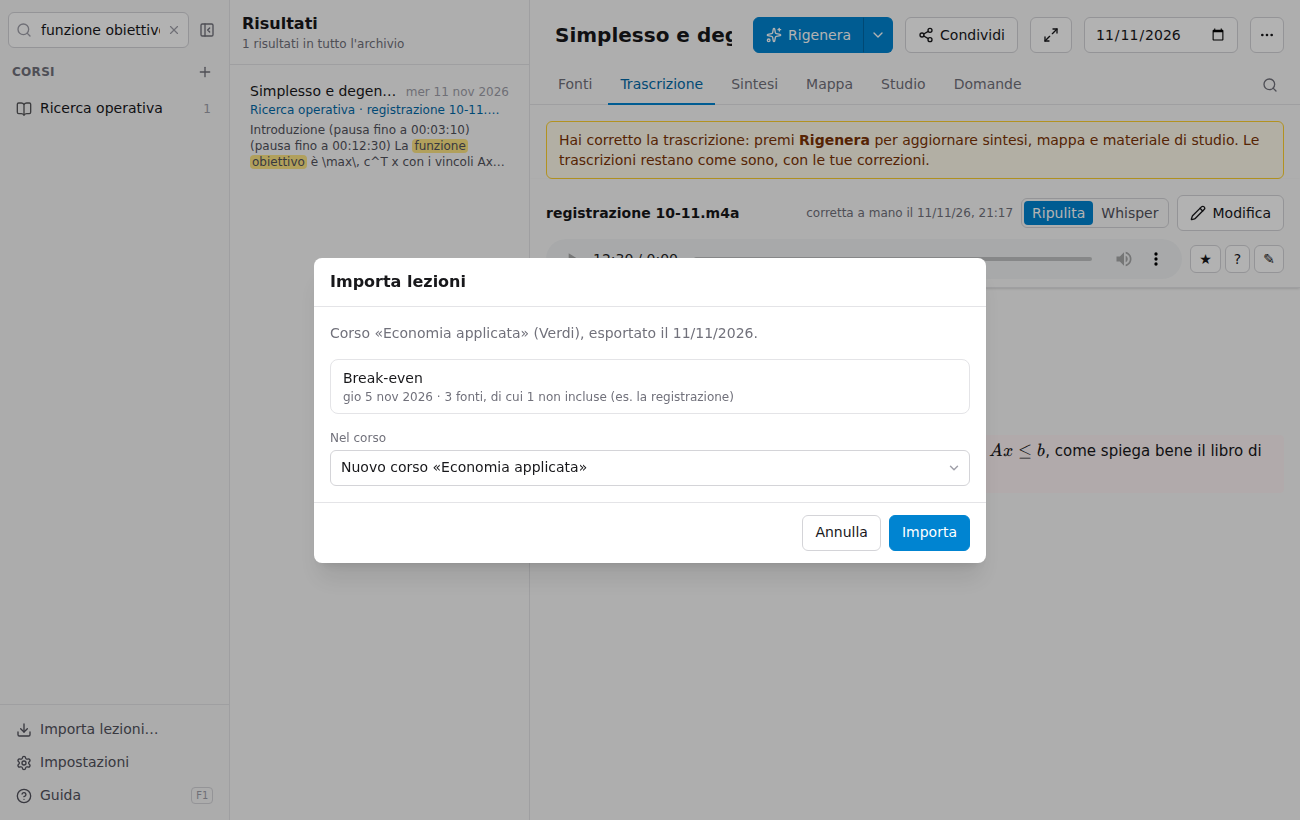
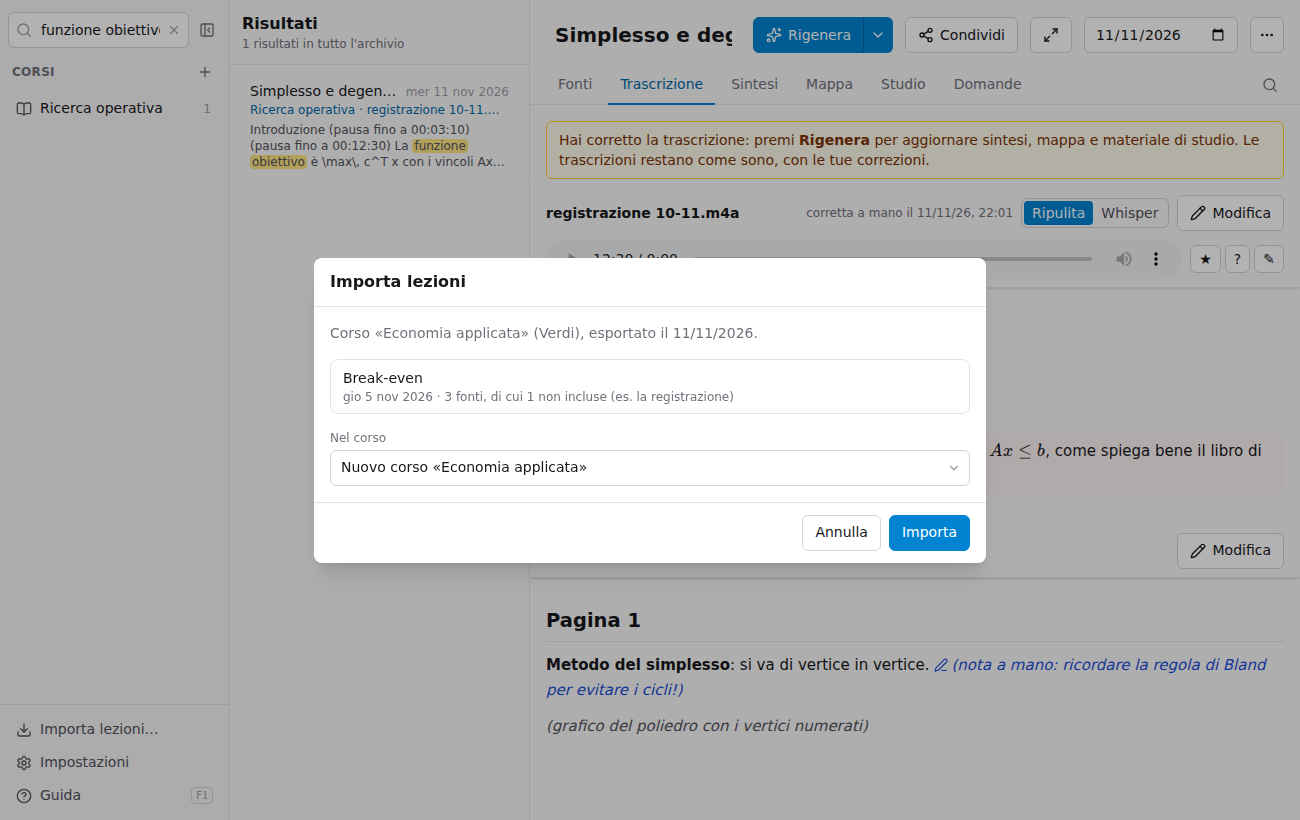
Map: links to the transcript and PDF export; handwritten notes in pen blue
OpenRouter takes PDFs up to 50 MB (a 33 MB one of 59 annotated slides worked).

Changed region(s): [[0.4, 0.7317, 0.9846, 0.8537], [0.4308, 0.8841, 0.6462, 0.9146], [0.9231, 0.6402, 0.9846, 0.7012]]

diff --git a/src/features/lesson/Outputs.tsx b/src/features/lesson/Outputs.tsx
@@ -1,8 +1,9 @@
 import { ask } from "@tauri-apps/plugin-dialog";
-import { ChevronDown, ChevronRight, Pause, Pencil, Plus, RotateCcw, Shuffle, Sparkles, Trash2, X } from "lucide-react";
+import { ArrowUpRight, ChevronDown, ChevronRight, FileDown, Pause, Pencil, Plus, RotateCcw, Shuffle, Sparkles, Trash2, X } from "lucide-react";
 import { useCallback, useEffect, useMemo, useRef, useState, useSyncExternalStore } from "react";
-import { ai, api, courseAi, costLine, fileUrl, sourceFile, toAppError, type Course, type JobEvent, type Bookmark, type BookmarkKind, type Lesson, type MapNode, type Outputs, type Study } from "../../lib/api";
-import { Markdown, MARK_ICON, MARK_LABEL } from "../../lib/Markdown";
+import { ai, api, courseAi, costLine, share, fileUrl, sourceFile, toAppError, type Course, type JobEvent, type Bookmark, type BookmarkKind, type Lesson, type MapNode, type Outputs, type Study } from "../../lib/api";
+import { Markdown, MARK_ICON, MARK_LABEL, toSecs } from "../../lib/Markdown";
+import { buildMapHtml } from "../share/html";
 import { toast } from "../../lib/toast";
 import { VersionsButton } from "./Versions";
 import { FlashCard, ReviewSession } from "../study/Review";
@@ -746,9 +747,41 @@ const DEPTH_STYLE = [
   "text-zinc-600 dark:text-zinc-400",
 ];
 
-function TreeNode({ node, depth }: { node: MapNode; depth: number }) {
+const fold = (s: string) => s.toLowerCase().normalize("NFD").replace(/\p{M}/gu, "");
+
+/** The reference of a map node: its own (`rif`, new maps), or the first one of the summary's
+ *  paragraph that talks about it (maps made before). As a link: `#t=F1@750` or `#f=F3`. */
+function nodeRef(node: MapNode, summary: string | null): { href: string; label: string } | null {
+  const toHref = (r: string) => {
+    const m = r.trim().match(/^\[?(F\d+)(?:\s+(\d{1,2}:\d{2}(?::\d{2})?))?/);
+    if (!m) return null;
+    return { href: m[2] ? `#t=${m[1]}@${toSecs(m[2])}` : `#f=${m[1]}`, label: m[2] ? `${m[1]} ${m[2]}` : m[1] };
+  };
+  if (node.rif) return toHref(node.rif);
+  if (!summary) return null;
+  const label = fold(node.etichetta);
+  const words = label.split(/\W+/u).filter((w) => w.length > 3);
+  const paras = summary.split(/\n\s*\n/).filter((p) => /\[F\d+/.test(p));
+  const score = (p: string) => {
+    const f = fold(p);
+    if (f.includes(label)) return 100;
+    return words.filter((w) => f.includes(w)).length;
+  };
+  let best: string | null = null;
+  let bestScore = 0;
+  for (const p of paras) {
+    const sc = score(p);
+    if (sc > bestScore) [best, bestScore] = [p, sc];
+  }
+  const enough = bestScore === 100 || (words.length > 0 && bestScore >= Math.max(2, Math.ceil((words.length * 2) / 3)));
+  const ref = enough && best ? best.match(/\[(F\d+(?:\s+\d{1,2}:\d{2}(?::\d{2})?)?)/) : null;
+  return ref ? toHref(ref[1]) : null;
+}
+
+function TreeNode({ node, depth, summary, onRef }: { node: MapNode; depth: number; summary: string | null; onRef: (href: string) => void }) {
   const [open, setOpen] = useState(true);
   const kids = node.figli ?? [];
+  const ref = nodeRef(node, summary);
   return (
     <div className="flex items-center">
       <button
@@ -759,11 +792,16 @@ function TreeNode({ node, depth }: { node: MapNode; depth: number }) {
         <span className="max-w-64">{node.etichetta}</span>
         {kids.length > 0 && !open && <span className="ml-1 text-xs opacity-70">+{kids.length}</span>}
       </button>
+      {ref && (
+        <button className="ml-1 shrink-0 rounded p-0.5 text-sky-600 hover:bg-sky-100 dark:text-sky-400 dark:hover:bg-sky-950" onClick={() => onRef(ref.href)} title={`Vai al punto della trascrizione (${ref.label})`} aria-label={`Vai a ${ref.label}: ${node.etichetta}`} data-map-ref>
+          <ArrowUpRight className="size-3.5" />
+        </button>
+      )}
       {kids.length > 0 && open && (
         <div className="relative ml-6 flex flex-col gap-2 border-l-2 border-sky-300 py-1 pl-4 dark:border-sky-800">
           {kids.map((k, i) => (
             <div key={i} className="relative before:absolute before:top-1/2 before:-left-4 before:w-4 before:border-t-2 before:border-sky-300 dark:before:border-sky-800">
-              <TreeNode node={k} depth={depth + 1} />
+              <TreeNode node={k} depth={depth + 1} summary={summary} onRef={onRef} />
             </div>
           ))}
         </div>
@@ -772,11 +810,28 @@ function TreeNode({ node, depth }: { node: MapNode; depth: number }) {
   );
 }
 
-export function MapTab({ outputs, process }: { outputs: Outputs; process: React.ReactNode }) {
+export function MapTab({ lesson, course, outputs, process, onRef }: { lesson: Lesson; course: Course | null; outputs: Outputs; process: React.ReactNode; onRef: (href: string) => void }) {
   if (!outputs.map) return <Placeholder text="La mappa concettuale degli argomenti della lezione." action={process} />;
+  const map = outputs.map;
   return (
     <div className="overflow-auto pb-6 select-text">
-      <TreeNode node={outputs.map} depth={0} />
+      <div className="mb-3 flex items-center gap-3">
+        <p className="flex-1 text-xs text-zinc-500">Clicca un concetto per chiuderlo o aprirlo; la freccia accanto porta al punto della trascrizione in cui se ne parla.</p>
+        {course && (
+          <button
+            className="btn"
+            onClick={() =>
+              share.print(`mappa-${lesson.title}`.replace(/[^\p{L}\p{N}]+/gu, "-").toLowerCase(), buildMapHtml(course, lesson, map)).then(
+                () => toast("Si è aperto il browser: nella finestra di stampa scegli «Salva come PDF»."),
+                (e) => toast(toAppError(e).message, "error"),
+              )
+            }
+          >
+            <FileDown className="size-4" /> Esporta in PDF
+          </button>
+        )}
+      </div>
+      <TreeNode node={map} depth={0} summary={outputs.summary} onRef={onRef} />
     </div>
   );
 }

diff --git a/src/features/share/html.tsx b/src/features/share/html.tsx
@@ -43,7 +43,39 @@ function Outline({ node }: { node: MapNode }) {
   );
 }
 
-function LessonDoc({ lesson, outputs, parts, course }: ExportLesson & { parts: ExportParts; course: Course }) {
+/** The concept map drawn as in the app: boxes joined by lines, colours by level (static CSS). */
+export function MapTree({ node, depth = 0 }: { node: MapNode; depth?: number }) {
+  const kids = node.figli ?? [];
+  return (
+    <div className="mt-node">
+      <span className={`mt-box mt-d${Math.min(depth, 3)}`}>{node.etichetta}</span>
+      {kids.length > 0 && (
+        <div className="mt-kids">
+          {kids.map((k, i) => (
+            <div key={i} className="mt-kid">
+              <MapTree node={k} depth={depth + 1} />
+            </div>
+          ))}
+        </div>
+      )}
+    </div>
+  );
+}
+
+const MAP_CSS = `
+.mt-node { display: flex; align-items: center; }
+.mt-box { flex-shrink: 0; max-width: 220px; padding: 5px 11px; border-radius: 8px; font-size: 13px; line-height: 1.3; break-inside: avoid; }
+.mt-d0 { background: #0284c7; color: #fff; font-weight: 700; font-size: 15px; }
+.mt-d1 { background: #e0f2fe; color: #0c4a6e; font-weight: 600; }
+.mt-d2 { background: #fff; border: 1px solid #d4d4d8; }
+.mt-d3 { color: #52525b; }
+.mt-kids { display: flex; flex-direction: column; gap: 6px; margin-left: 22px; padding: 3px 0 3px 14px; border-left: 2px solid #7dd3fc; }
+.mt-kid { position: relative; break-inside: avoid; }
+.mt-kid::before { content: ""; position: absolute; top: 50%; left: -14px; width: 14px; border-top: 2px solid #7dd3fc; }
+* { -webkit-print-color-adjust: exact; print-color-adjust: exact; }
+`;
+
+function LessonDoc({ lesson, outputs, parts, course, drawMap }: ExportLesson & { parts: ExportParts; course: Course; drawMap?: boolean }) {
   const codes = Object.entries(outputs.info?.sources ?? {});
   const name = (id: string) => lesson.sources.find((s) => s.id === id)?.originalName ?? "";
   const transcripts = lesson.sources.filter((s) => outputs.extracts[s.id] !== undefined);
@@ -77,9 +109,15 @@ function LessonDoc({ lesson, outputs, parts, course }: ExportLesson & { parts: E
       {parts.map && outputs.map && (
         <section>
           <h2 className="part">Mappa concettuale</h2>
-          <ul className="outline">
-            <Outline node={outputs.map} />
-          </ul>
+          {drawMap ? (
+            <div className="map-drawn">
+              <MapTree node={outputs.map} />
+            </div>
+          ) : (
+            <ul className="outline">
+              <Outline node={outputs.map} />
+            </ul>
+          )}
         </section>
       )}
       {parts.study && outputs.study && (
@@ -170,7 +208,7 @@ export function buildHtml(course: Course, lessons: ExportLesson[], parts: Export
   const body = renderToStaticMarkup(
     <main>
       {lessons.map((l) => (
-        <LessonDoc key={l.lesson.id} {...l} parts={parts} course={course} />
+        <LessonDoc key={l.lesson.id} {...l} parts={parts} course={course} drawMap={forPrint} />
       ))}
       <footer>Creato con Lezioni · {new Date().toLocaleDateString("it-IT")}</footer>
     </main>,
@@ -181,6 +219,34 @@ export function buildHtml(course: Course, lessons: ExportLesson[], parts: Export
 <html lang="it"><head><meta charset="utf-8"><meta name="viewport" content="width=device-width, initial-scale=1">
 <title>${esc(title)}</title>
 <style>${inlineKatexFonts(katexCss)}</style>
-<style>${proseCss}${PAGE_CSS}</style>
+<style>${proseCss}${PAGE_CSS}${MAP_CSS}</style>
 </head><body>${html}</body></html>`;
+}
+
+/** Just the concept map of a lesson, on a landscape page, for printing to PDF. */
+export function buildMapHtml(course: Course, lesson: Lesson, map: MapNode): string {
+  const esc = (s: string) => s.replace(/&/g, "&amp;").replace(/</g, "&lt;");
+  const body = renderToStaticMarkup(
+    <main className="map-page">
+      <header>
+        <p className="course">
+          {course.name}
+          {course.teacher ? ` · ${course.teacher}` : ""}
+        </p>
+        <h1>{lesson.title}</h1>
+        <p className="date">Mappa concettuale · {fmtDate(lesson.date)}</p>
+      </header>
+      <MapTree node={map} />
+      <footer>Creato con Lezioni · {new Date().toLocaleDateString("it-IT")}</footer>
+    </main>,
+  );
+  return `<!doctype html>
+<html lang="it"><head><meta charset="utf-8"><meta name="viewport" content="width=device-width, initial-scale=1">
+<title>${esc(`Mappa · ${lesson.title}`)}</title>
+<style>${PAGE_CSS}${MAP_CSS}
+main.map-page { max-width: none; padding: 24px 32px; }
+main.map-page header h1 { font-size: 22px; }
+@media print { @page { size: A4 landscape; margin: 12mm; } main.map-page { padding: 0; } }
+</style>
+</head><body>${body}</body></html>`;
 }

diff --git a/scripts/smoke/mock.js b/scripts/smoke/mock.js
@@ -291,15 +291,17 @@
             return (message) => cbs[a.channel.id]?.({ index: i++, message });
           })();
           const audio = l.sources.find((s) => s.kind === "audio");
+          const pdf = l.sources.find((s) => s.kind === "pdf");
           setTimeout(() => send({ event: "step", done: 0.33, total: 3, message: "Trascrizione sul computer di registrazione.m4a, parte 2 di 3: 00:20:00–00:40:00 di 00:52:10" }), 50);
           setTimeout(() => send({ event: "detail", message: "Whisper: 43% · ripulitura della parte 1" }), 80);
           window.__finishJob = () => {
             outputs[l.id] = {
               extracts: audio ? { [audio.id]: "### Introduzione\n[00:00:05] Oggi vediamo il metodo del simplesso.\n\n[00:03:10] grazie\n\n[00:03:40] grazie grazie grazie grazie\n\n[00:12:30] La funzione obiettivo è $\\max\\, c^T x$ con vincoli $Ax \\le b$. Lo spiega bene il libro di Team." } : {},
               pauses: audio ? { [audio.id]: 1 } : {},
+              ...(pdf && { pdfText: { [pdf.id]: "## Pagina 1\n**Metodo del simplesso**: si va di vertice in vertice. *(nota a mano: ricordare la regola di Bland per evitare i cicli!)*\n\n*(grafico del poliedro con i vertici numerati)*" } }),
               raw: audio ? { [audio.id]: "[00:00:05] Allora, ehm, oggi vediamo il metodo del simplesso, cioè...\n\n[00:12:30] la funzione obiettivo è max c trasposto x con vincoli a x minore uguale b. Lo spiega bene il libro di team." } : {},
               summary: "## Metodo del simplesso\nSi parte da una **base ammissibile** e ci si sposta sui vertici. [F1 00:12:30]\n\n$$\\max\\; c^T x \\quad \\text{s.t. } Ax \\le b,\\ x \\ge 0$$\n\n| Passo | Azione |\n|---|---|\n| 1 | Scegli la variabile entrante |\n| 2 | Test del rapporto minimo |",
-              map: { etichetta: "Simplesso", figli: [{ etichetta: "Forma standard", figli: [{ etichetta: "Variabili di slack" }] }, { etichetta: "Base ammissibile" }, { etichetta: "Pivot", figli: [{ etichetta: "Variabile entrante" }, { etichetta: "Rapporto minimo" }] }] },
+              map: { etichetta: "Simplesso", figli: [{ etichetta: "Forma standard", figli: [{ etichetta: "Variabili di slack" }] }, { etichetta: "Base ammissibile" }, { etichetta: "Pivot", rif: "F1 00:12:30", figli: [{ etichetta: "Variabile entrante" }, { etichetta: "Rapporto minimo" }] }] },
               study: {
                 glossario: [{ termine: "Base", definizione: "Insieme di m variabili linearmente indipendenti." }],
                 flashcard: [{ domanda: "Cos'è il test del rapporto minimo?", risposta: "Sceglie la variabile uscente mantenendo l'ammissibilità: $\\min_i b_i / a_{ij}$ con $a_{ij} > 0$." }],
@@ -308,6 +310,8 @@
               info: { generated: now(), model: "gemini-3.8-flash", usage: { promptTokenCount: 120000, candidatesTokenCount: 15000, thoughtsTokenCount: 2000, cost: 0.034 }, suggestedTitle: "Simplesso", sources: audio ? { F1: audio.id } : {} },
             };
             versions[l.id] = [{ area: "generati", stamp: "2026-11-10 09-15-00", files: ["info.json", "mappa.json", "mappa.mmd", "sintesi.md", "studio.json"] }];
+            Object.assign(outputs[l.id].extracts, outputs[l.id].pdfText ?? {});
+            delete outputs[l.id].pdfText;
             costs[l.id] = (costs[l.id] ?? []).concat([{ when: now(), total: 0.034 }]);
             send({ event: "done", usage: { promptTokenCount: 120000, candidatesTokenCount: 15000, thoughtsTokenCount: 2000, cost: 0.034 }, warnings: [] });
           };

diff --git a/src/lib/Markdown.tsx b/src/lib/Markdown.tsx
@@ -1,5 +1,5 @@
 import "katex/dist/katex.min.css";
-import { Pause } from "lucide-react";
+import { Pause, PenLine } from "lucide-react";
 import { useMemo } from "react";
 import ReactMarkdown from "react-markdown";
 import rehypeKatex from "rehype-katex";
@@ -130,6 +130,16 @@ export function Markdown({
         remarkPlugins={[remarkGfm, remarkMath]}
         rehypePlugins={[rehypeKatex]}
         components={{
+          // Notes written by hand on a slide or a photo: in pen blue, with a pen.
+          em: ({ node, children }) =>
+            /^\(?\s*nota a mano\b/i.test(textOf(node).trim()) ? (
+              <em className="handwritten" title="Scritto a mano sulla pagina">
+                <PenLine className="handwritten-pen" aria-hidden />
+                {children}
+              </em>
+            ) : (
+              <em>{children}</em>
+            ),
           p: ({ node, children }) => {
             if (inline) return <>{children}</>;
             const pause = source ? pauseOf(node) : null;

diff --git a/src/lib/prose.css b/src/lib/prose.css
@@ -18,3 +18,6 @@
 .dark .prose-lezioni em, .dark .prose-lezioni blockquote { color: rgb(161 161 170); }
 .prose-lezioni .katex-display { overflow-x: auto; overflow-y: hidden; }
 [data-card] .prose-lezioni { font-size: inherit; }
+.handwritten, .prose-lezioni em.handwritten { color: rgb(29 78 216); }
+.dark .handwritten, .dark .prose-lezioni em.handwritten { color: rgb(147 197 253); }
+.handwritten-pen { display: inline; width: 0.95em; height: 0.95em; margin-right: 0.2em; vertical-align: -0.1em; }

diff --git a/src/features/lesson/LessonView.tsx b/src/features/lesson/LessonView.tsx
@@ -301,7 +301,7 @@ export function LessonView({
             }}
           />
         ) : tab === "map" ? (
-          <MapTab outputs={outputs} process={processButton} />
+          <MapTab lesson={lesson} course={course} outputs={outputs} process={processButton} onRef={onSummaryRef} />
         ) : (
           <StudyTab lesson={lesson} outputs={outputs} process={processButton} editing={editing} />
         )}

diff --git a/src/lib/api.ts b/src/lib/api.ts
@@ -178,6 +178,8 @@ export interface Usage {
 
 export interface MapNode {
   etichetta: string;
+  /** where the sources talk about it: "F1 00:12:30" or "F3" (maps made from Nov 2026) */
+  rif?: string;
   figli?: MapNode[];
 }
 

diff --git a/src-tauri/src/ai/prompts.rs b/src-tauri/src/ai/prompts.rs
@@ -112,7 +112,7 @@ Collegale tra loro: gli appunti e le slide spesso spiegano o correggono ciò che
 Produci:\n\
 1. **sintesi**: una sintesi completa e ordinata della lezione in Markdown (titoli ##/###, elenchi, formule LaTeX, esempi svolti se ci sono). \
 Deve permettere di studiare senza riascoltare la lezione. Alla fine di ogni paragrafo indica le fonti tra parentesi quadre, con il minuto per la registrazione, ad esempio [F1 00:12:30] o [F3].\n\
-2. **mappa**: una mappa concettuale ad albero: radice = argomento della lezione, poi i concetti principali, poi i sotto-concetti. Etichette brevi (massimo 6 parole).\n\
+2. **mappa**: una mappa concettuale ad albero: radice = argomento della lezione, poi i concetti principali, poi i sotto-concetti. Etichette brevi (massimo 6 parole). Per ogni nodo, in rif, il punto delle fonti dove se ne parla, come nella sintesi ma senza parentesi: F1 00:12:30 oppure F3.\n\
 3. **glossario**: i termini tecnici con una definizione breve.\n\
 4. **flashcard**: 10-20 domande e risposte brevi per il ripasso.\n\
 5. **domande_esame**: 4-8 domande come all'esame (teoria ed esercizi), ciascuna con una traccia di risposta.\n\
@@ -122,7 +122,7 @@ FONTI:\n\n{sources}"
 }
 
 fn node(depth: u32) -> Value {
-    let mut props = json!({ "etichetta": { "type": "string" } });
+    let mut props = json!({ "etichetta": { "type": "string" }, "rif": { "type": "string" } });
     if depth > 0 {
         props["figli"] = json!({ "type": "array", "items": node(depth - 1) });
     }

diff --git a/src-tauri/src/pipeline.rs b/src-tauri/src/pipeline.rs
@@ -256,6 +256,9 @@ pub fn hms(secs: u64) -> String {
 #[derive(Debug, Clone, Serialize, Deserialize, PartialEq)]
 pub struct MapNode {
     pub etichetta: String,
+    /// Where the sources talk about it, as in the summary: "F1 00:12:30" or "F3".
+    #[serde(default, skip_serializing_if = "String::is_empty")]
+    pub rif: String,
     #[serde(default, skip_serializing_if = "Vec::is_empty")]
     pub figli: Vec<MapNode>,
 }
@@ -1259,6 +1262,18 @@ mod tests {
         assert_eq!(prompts.len(), n + 1);
         let p = &prompts[n];
         assert!(p.contains("Pezzo:") && p.contains(&hms(ts[1])) && !p.contains(&format!("[{}]", hms(ts[0]))), "{p}");
+    }
+
+    #[test]
+    fn map_nodes_with_and_without_references() {
+        let old: MapNode = serde_json::from_str(r#"{"etichetta":"Dighe","figli":[{"etichetta":"Speroni"}]}"#).unwrap();
+        assert_eq!(old.figli[0].rif, "");
+        let new: MapNode = serde_json::from_str(r#"{"etichetta":"Dighe","rif":"F1 00:12:30"}"#).unwrap();
+        assert_eq!(new.rif, "F1 00:12:30");
+        assert!(!serde_json::to_string(&old).unwrap().contains("rif"), "nothing written when there is none");
+        let schema = prompts::generate_schema();
+        assert_eq!(schema["properties"]["mappa"]["properties"]["rif"]["type"], "string");
+        assert_eq!(schema["properties"]["mappa"]["required"], serde_json::json!(["etichetta"]));
     }
 
     #[test]

diff --git a/src-tauri/tests/openrouter_it.rs b/src-tauri/tests/openrouter_it.rs
@@ -57,7 +57,7 @@ async fn compare_models() {
         let (mut tp, mut cp) = (0.0, 0.0);
         if let Some(p) = &pdf {
             let t = Instant::now();
-            let req = Request { system: Some(prompts::SYSTEM.into()), parts: vec![Part::Inline { mime: "application/pdf".into(), data: p.clone() }, Part::Text(prompts::PDF.into())], max_output_tokens: Some(8000), thinking: Some("LOW"), ..Default::default() };
+            let req = Request { system: Some(prompts::SYSTEM.into()), parts: vec![Part::Inline { mime: "application/pdf".into(), data: p.clone() }, Part::Text(prompts::PDF.into())], max_output_tokens: Some(32_000), thinking: Some("LOW"), ..Default::default() };
             match o.generate(model, &req, &cancel).await {
                 Ok(a) => {
                     tp = t.elapsed().as_secs_f64();

diff --git a/src-tauri/src/ai/openrouter.rs b/src-tauri/src/ai/openrouter.rs
@@ -20,7 +20,8 @@ const BASE: &str = "https://openrouter.ai";
 const RETRIES: u32 = 6;
 const CALL_TIMEOUT: Duration = Duration::from_secs(600);
 /// Images and PDFs travel inside the request: keep it reasonable.
-pub const INLINE_MAX: u64 = 30 * 1024 * 1024;
+/// Checked with a 33 MB PDF (44 MB in base64) of 59 pages, Nov 2026.
+pub const INLINE_MAX: u64 = 50 * 1024 * 1024;
 
 #[derive(Clone)]
 pub struct OpenRouter {

diff --git a/docs/tecnico/architettura.md b/docs/tecnico/architettura.md
@@ -51,6 +51,8 @@ La fonte di verità è una **cartella scelta dall'utente**, sincronizzabile con 
 - **Ripasso** (`review.rs`, comandi `review_due` e `review_answer`): `ripasso.json` mappa la chiave di una carta (SHA-256 della domanda in minuscolo e con gli spazi compressi, primi 8 byte) a `{ box, due, seen, wrong }`. Leitner: *la sapevo* sale di una scatola (intervalli 0, 1, 3, 7, 14, 30 giorni), *non la sapevo* torna a 0 con scadenza oggi. `review_due` per lezione o corso dà le carte scadute (prima le più vecchie) e poi al massimo `NEW_PER_SESSION` (20) nuove, dalla lezione più vecchia; la data è quella locale. Il file sta alla radice della lezione, quindi *Rigenera* (`archive_generated`) non lo tocca.
 - **Versioni** (`versions.rs`, comandi `version_read` e `version_restore`; l'elenco arriva con `outputs()`): leggono `generati/versioni/<data-ora>/` ed `estratti/versioni/<data-ora>/`, con data e file controllati da `is_plain_file_name`. Ripristinare gli output sposta prima gli attuali in una nuova versione (`pipeline::archive_generated`); ripristinare una trascrizione ne copia prima l'attuale e la salva con `save_extract`, quindi conta come corretta a mano. Due versioni nello stesso secondo prendono il suffisso « 2» (`new_version_dir`). Il confronto è un LCS a righe in `src/lib/diff.ts`.
 - **Ripulitura di un pezzo** (`pipeline::reclean`, comando `extract_reclean`): prende dal testo di Whisper i paragrafi con tempo in [da, a) (`paragraphs_between`), li manda con `prompts::clean_fragment` (senza titoli) al modello scelto o a quello della ripulitura, e controlla il risultato con `plausible_fragment` (metà delle parole, almeno un tempo, tutti i tempi nel tratto: più largo di `plausible_cleanup`, perché unire tre paragrafi brevi in uno è normale). Non salva niente: l'interfaccia (`pieceAt` in `Outputs.tsx` trova i paragrafi toccati dalla selezione, senza i titoli che precedono il paragrafo dopo) mostra la proposta e la sostituisce nell'editor; il salvataggio è quello di `extract_save`. Costo registrato come `ripulitura`.
+- **Mappa**: `MapNode.rif` (facoltativo nello schema, `"F1 00:12:30"` o `"F3"`) dice dove le fonti parlano del concetto; per le mappe senza, `nodeRef` in `Outputs.tsx` lo cerca nella sintesi (il paragrafo che contiene l'etichetta, o almeno due terzi delle sue parole lunghe) e ne prende il primo riferimento. La freccia usa lo stesso percorso dei riferimenti della sintesi. Il PDF della mappa è una pagina HTML a sé (`buildMapHtml`, `MapTree` con CSS statico, `@page A4 landscape`) aperta per la stampa come il PDF della lezione, che ora disegna la mappa allo stesso modo.
+- **Appunti a mano**: i prompt di PDF e foto chiedono `*(nota a mano: …)*`; `Markdown` disegna quei corsivi con la classe `.handwritten`. `openrouter::INLINE_MAX` è 50 MB (provato con un PDF di 33 MB, 44 MB in base64).
 - **Pause** (`pauses.rs`): `mark` trasforma i paragrafi a tempo fatti solo di frasi che Whisper inventa sul silenzio («grazie», «sottotitoli a cura di…», o una frase di 1–3 parole ripetuta almeno 3 volte) in `[hh:mm:ss] *(pausa fino a hh:mm:ss)*`, fino al paragrafo vero seguente; un paragrafo isolato sotto i 20 s resta (un «grazie» vero), pause vicine si uniscono. Si applica a ogni parte appena trascritta (`raw_part`, con `mark_until` alla fine della parte), all'unione delle parti e, per le lezioni vecchie, con `pipeline::mark_pauses` (comando `extract_mark_pauses`, conta come correzione a mano); `outputs().pauses` dice quante ce ne sono ancora da sistemare. La ripulitura ha la regola di lasciare le righe di pausa; `Markdown.tsx` le disegna in grigio.
 - **Parole per tutti i corsi**: `<archivio>/parole.txt` (`Library::global_terms`, comandi `terms_get`/`terms_set`). `Library::terms_for(corso)` unisce prima le parole del corso e poi queste, senza doppioni, ed è ciò che ricevono Whisper, la ripulitura, la sintesi, la ripulitura di un pezzo e la sintesi del corso. Il glossario del corso (`course::glossary`, comando `course_glossary`) unisce i `glossario` degli `studio.json` delle lezioni per termine (senza distinguere maiuscole), con la prima definizione e le lezioni.
 - **Parole del corso** (`CourseMeta.terms`): vanno nel prompt iniziale di Whisper (`asr_prompt`, al massimo 40 parole), in `prompts::clean_transcript` e in `prompts::generate`.
